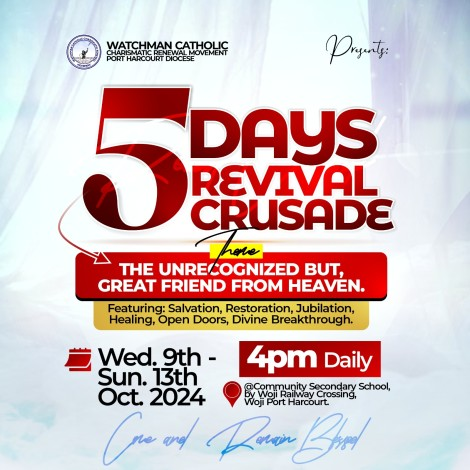
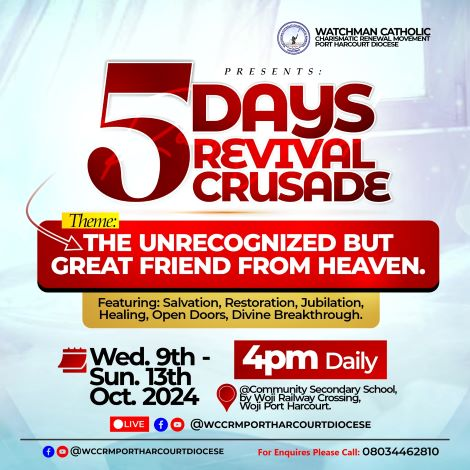
update

diff --git a/index.html b/index.html
@@ -435,8 +435,18 @@
                         <div class="section-tittle mb-35">
                             <h2>The 5 Days Revival Crusade</h2>
                         </div>
-                        <p> The Explanation of the theme here</p>
-                        <p>Key features here</p>
+                        <p>⚧Join us for the <b>5</b> Days Revival Crusade <br>
+
+                            📆 October <b>9th to 13th</b>, 2024 at 4 PM daily at Community Secondary School, Woji Railway Crossing, Woji Port Harcourt.  <br>
+                            
+                            💥🔥Experience the life-changing power of God as miracles unfold before your eyes. <br>
+                            
+                            ❇Don't miss this incredible opportunity to encounter His love and grace. <br>
+                            
+                           </p>
+                        <p> <b><i>#Miracles      #Salvation     #5DaysRevival</i></b>
+                            <b><i>#Watchman    #PortHarcourt      #DivineEncounter</i></b>
+                            </p>
                     </div>
                     <div class="row">
                         <div class="col-lg-6 col-md-6 col-sm-6 col-xs-10">
@@ -457,7 +467,7 @@
                                 </div>
                                 <div class="caption">
                                     <h5>When</h5>
-                                    <p>Oct. 15. 2024</p>
+                                    <p>Oct. 9th 2024</p>
                                 </div>
                             </div>
                         </div>
@@ -509,7 +519,7 @@
                 <div class="col-lg-3 col-md-4 col-sm-6">
                     <div class="single-team mb-30">
                         <div class="team-img">
-                            <img src="assets/img/ministers/pastorsolomon.png" alt="">
+                            <img src="assets/img/ministers/pastorsolomon.jpg" alt="">
                             <!-- Blog Social -->
                             <ul class="team-social">
                                 <li><a href="#"><i class="fab fa-facebook-f"></i></a></li>
@@ -526,7 +536,7 @@
                 <div class="col-lg-3 col-md-4 col-sm-6">
                     <div class="single-team mb-30">
                         <div class="team-img">
-                            <img src="assets/img/gallery/u.jpeg" alt="">
+                            <img src="assets/img/ministers/PastorJulius.png" alt="">
                             <!-- Blog Social -->
                             <ul class="team-social">
                                 <li><a href="#"><i class="fab fa-facebook-f"></i></a></li>
@@ -535,8 +545,25 @@
                             </ul>
                         </div>
                         <div class="team-caption">
-                            <h3><a href="#">namme</a></h3>
-                            <p> POST HELDr</p>
+                            <h3><a href="#">Pastor Julius</a></h3>
+                            <p>Minister</p>
+                        </div>
+                    </div>
+                </div>
+                <div class="col-lg-3 col-md-4 col-sm-6">
+                    <div class="single-team mb-30">
+                        <div class="team-img">
+                            <img src="assets/img/ministers/Kanyle.jpg" alt="">
+                            <!-- Blog Social -->
+                            <ul class="team-social">
+                                <li><a href="#"><i class="fab fa-facebook-f"></i></a></li>
+                                <li><a href="#"><i class="fab fa-twitter"></i></a></li>
+                                <li><a href="#"><i class="fas fa-globe"></i></a></li>
+                            </ul>
+                        </div>
+                        <div class="team-caption">
+                            <h3><a href="#">Pastor Kanyle</a></h3>
+                            <p>Minister</p>
                         </div>
                     </div>
                 </div>
@@ -553,7 +580,7 @@
                         </div>
                         <div class="team-caption">
                             <h3><a href="#">name</a></h3>
-                            <p> POST HELD</p>
+                            <p>Minister</p>
                         </div>
                     </div>
                 </div>
@@ -570,24 +597,7 @@
                         </div>
                         <div class="team-caption">
                             <h3><a href="#">name</a></h3>
-                            <p> POST HELD</p>
-                        </div>
-                    </div>
-                </div>
-                <div class="col-lg-3 col-md-4 col-sm-6">
-                    <div class="single-team mb-30">
-                        <div class="team-img">
-                            <img src="assets/img/gallery/u.jpeg" alt="">
-                            <!-- Blog Social -->
-                            <ul class="team-social">
-                                <li><a href="#"><i class="fab fa-facebook-f"></i></a></li>
-                                <li><a href="#"><i class="fab fa-twitter"></i></a></li>
-                                <li><a href="#"><i class="fas fa-globe"></i></a></li>
-                            </ul>
-                        </div>
-                        <div class="team-caption">
-                            <h3><a href="#">name</a></h3>
-                            <p> POST HELD</p>
+                            <p>Minister</p>
                         </div>
                     </div>
                 </div>
@@ -605,9 +615,10 @@
                         <div class="section-tittle mb-35">
                             <h2>CURRENT LIVESTREAM</h2>
                         </div>
-                        <p>THE GREAT FRIEND FROM HEAVEN</p>
-                       
-                        <a href="https://www.youtube.com/@watchmanportharcourt/streams" class="btn mt-10">WATCH MORE ON YOUTUBE</a>
+                        <p>WATCH OUR LIVESTREAM <b><i>OR</i></b>Are you looking for low-cost streaming solution—audio only, no video—helping you reduce costs significantly. Use Our Online Radio</p>
+              
+                        <a href="livestream.html" class="btn mt-10">WATCH OUR LIVESTREAM</a> 
+                        <a href="https://radio.wccrmportharcourt.com/" class="btn mt-10">STREAM ON RADIO</a>
                     </div>
                     <div class="row">
                         <div class="col-lg-6 col-md-6 col-sm-6 col-xs-10">
@@ -619,7 +630,7 @@
                 <div class="col-lg-6 col-md-5">
                     <!-- about-img -->
                     <div class="about-img ">
-                        <div style="left: 0; width: 100%; height: 0; position: relative; padding-bottom: 56.25%;"><iframe src="https://www.youtube.com/embed/eqhDqoyLUnE?rel=0&start=68" style="top: 0; left: 0; width: 100%; height: 100%; position: absolute; border: 0;" allowfullscreen scrolling="no" allow="accelerometer; clipboard-write; encrypted-media; gyroscope; picture-in-picture; web-share;"></iframe></div>
+                        <div style="left: 0; width: 100%; height: 0; position: relative; padding-bottom: 56.25%;"><iframe src="https://www.youtube.com/embed/g80LWcDquwg?rel=0&start=68" style="top: 0; left: 0; width: 100%; height: 100%; position: absolute; border: 0;" allowfullscreen scrolling="no" allow="accelerometer; clipboard-write; encrypted-media; gyroscope; picture-in-picture; web-share;"></iframe></div>
                         
                     </div>
                 </div>
@@ -1001,8 +1012,8 @@
                 <div class="col-lg-5 col-md-8">
                     <!-- Section Tittle -->
                     <div class="section-tittle section-tittle2 mb-50">
-                        <h2>Our Social Media Platforms.</h2>
-                        <p>Be Part of those that Share The Gospel From Our Various Social Media Platforms. You should help carry the gospel to Mum, Dad, Friends, Classmates, Fellows, Colleagues, e.t.c</p>
+                        <h2>WCCRMPH Social Media Platforms.</h2>
+                        <p>Be Part of those that Share The Gospel From Our Various Social Media Platforms. You should help carry the gospel to Mum, Dad, Friends, Classmates, Fellows, Colleagues, e.t.c Click any of the Social Media Cards, to engage in any of the Social Media handles and don't forget to share Our Contents.</p>
                     </div>
                 </div>
                 <div class="col-lg-7">

diff --git a/about.html b/about.html
@@ -159,8 +159,18 @@
                         <div class="section-tittle mb-35">
                             <h2>The 5 Days Revival Crusade</h2>
                         </div>
-                        <p> The Explanation of the theme here</p>
-                        <p>Key features here</p>
+                        <p>⚧Join us for the <b>5</b> Days Revival Crusade <br>
+
+                            📆 October <b>9th to 13th</b>, 2024 at 4 PM daily at Community Secondary School, Woji Railway Crossing, Woji Port Harcourt.  <br>
+                            
+                            💥🔥Experience the life-changing power of God as miracles unfold before your eyes. <br>
+                            
+                            ❇Don't miss this incredible opportunity to encounter His love and grace. <br>
+                            
+                           </p>
+                        <p> <b><i>#Miracles      #Salvation     #5DaysRevival</i></b>
+                            <b><i>#Watchman    #PortHarcourt      #DivineEncounter</i></b>
+                            </p>
                     </div>
                     <div class="row">
                         <div class="col-lg-6 col-md-6 col-sm-6 col-xs-10">
@@ -181,21 +191,18 @@
                                 </div>
                                 <div class="caption">
                                     <h5>When</h5>
-                                    <p>Oct. 15. 2024</p>
+                                    <p>Oct. 9th. 2024</p>
                                 </div>
                             </div>
                         </div>
                     </div>
-                    <a href="#" class="btn mt-50">Get Your DP</a>
+                    <a href="https://api.whatsapp.com/send?text=YOU%20ARE%20INVITED%20TO%20THE%205%20DAYS%20REVIVAL%20CRUSADE%20https%3A%2F%2Fhttps://wccrmportharcourt.com/%20" class="btn mt-50" target="_blank">Share to Friends</a>
                 </div>
                 <div class="col-lg-6 col-md-12">
                     <!-- about-img -->
                     <div class="about-img ">
-                        <div class="about-font-img d-none d-lg-block">
-                            <img src="assets/img/gallery/SO.jpg" alt="">
-                        </div>
                         <div class="about-back-img ">
-                            <img src="assets/img/gallery/rumigbo.jpg" alt="">
+                            <img src="assets/img/gallery/flyer.jpg" alt="">
                         </div>
                     </div>
                 </div>

diff --git a/prayer-request/prayer-request.html b/prayer-request/prayer-request.html
@@ -21,22 +21,22 @@
 
         <!-- Navigation and Hotline on the right -->
         <nav class="hidden lg:flex space-x-8 items-center">
-            <a href="index.html" class="text-gray-700 hover:text-purple-600">Home</a>
-            <a href="about.html" class="text-gray-700 hover:text-purple-600">About</a>
-            <a href="livestream.html" class="text-gray-700 hover:text-purple-600">Livestream</a>
-            <a href="ourlocation.html" class="text-gray-700 hover:text-purple-600">Locations</a>
+            <a href="/index.html" class="text-gray-700 hover:text-purple-600">Home</a>
+            <a href="/about.html" class="text-gray-700 hover:text-purple-600">About</a>
+            <a href="/livestream.html" class="text-gray-700 hover:text-purple-600">Livestream</a>
+            <a href="/ourlocation.html" class="text-gray-700 hover:text-purple-600">Locations</a>
             <a href="https://web.facebook.com/watchmanportharcourt/" class="text-gray-700 hover:text-purple-600">Join Us</a>
-            <a href="contact.html" class="bg-purple-600 text-white px-4 py-2 rounded-md">HOTLINE</a>
+            <a href="/contact.html" class="bg-purple-600 text-white px-4 py-2 rounded-md">HOTLINE</a>
         </nav>
 
         <!-- Mobile Menu -->
         <div id="mobile-menu" class="hidden lg:hidden flex flex-col space-y-4 absolute right-4 top-16 bg-white shadow-lg rounded-lg p-4 w-48">
-            <a href="index.html" class="text-gray-700 hover:text-purple-600">Home</a>
-            <a href="about.html" class="text-gray-700 hover:text-purple-600">About</a>
-            <a href="livestream.html" class="text-gray-700 hover:text-purple-600">Livestream</a>
-            <a href="ourlocation.html" class="text-gray-700 hover:text-purple-600">Locations</a>
+            <a href="/index.html" class="text-gray-700 hover:text-purple-600">Home</a>
+            <a href="/about.html" class="text-gray-700 hover:text-purple-600">About</a>
+            <a href="/livestream.html" class="text-gray-700 hover:text-purple-600">Livestream</a>
+            <a href="/ourlocation.html" class="text-gray-700 hover:text-purple-600">Locations</a>
             <a href="https://web.facebook.com/watchmanportharcourt/" class="text-gray-700 hover:text-purple-600">Join Us</a>
-            <a href="contact.html" class="bg-purple-600 text-white px-4 py-2 rounded-md">HOTLINE</a>
+            <a href="/contact.html" class="bg-purple-600 text-white px-4 py-2 rounded-md">HOTLINE</a>
         </div>
     </div>
 </header>

diff --git a/livestream.html b/livestream.html
@@ -165,12 +165,12 @@
                 <span id="currentDate"></span>
                 <span> &nbsp;&nbsp;&nbsp;&nbsp;&nbsp;Current LiveStream</span>
             </div>
-            <iframe id="sermonVideo" src="https://www.youtube.com/embed/CwyH9NA_9iQ" class="w-100 rounded mb-3" style="height: 400px;" frameborder="0" allowfullscreen></iframe>
+            <iframe id="sermonVideo" src="https://www.youtube.com/embed/g80LWcDquwg" class="w-100 rounded mb-3" style="height: 400px;" frameborder="0" allowfullscreen></iframe>
             <div class="d-flex justify-content-center mt-3">
                 <button onclick="watchNow()" class="btn btn-primary me-2">WATCH NOW</button>
                 <button onclick="listen()" class="btn btn-primary me-2">LISTEN</button>
                 <button onclick="saveVideo()" class="btn btn-primary">SAVE</button>
-            </div>
+            </div> 
         </div>
         
     
@@ -235,12 +235,12 @@
         }
     
         function listen() {
-            window.location.href = 'https://www.youtube.com/watch?v=CwyH9NA_9iQ';
+            window.location.href = 'https://www.youtube.com/watch?v=g80LWcDquwg';
         }
     
         function saveVideo() {
             const link = document.createElement('a');
-            link.href = 'https://www.youtube.com/watch?v=CwyH9NA_9iQ';
+            link.href = 'https://www.youtube.com/watch?v=g80LWcDquwg';
             link.download = 'sermon_video.mp4';
             link.click();
         }
